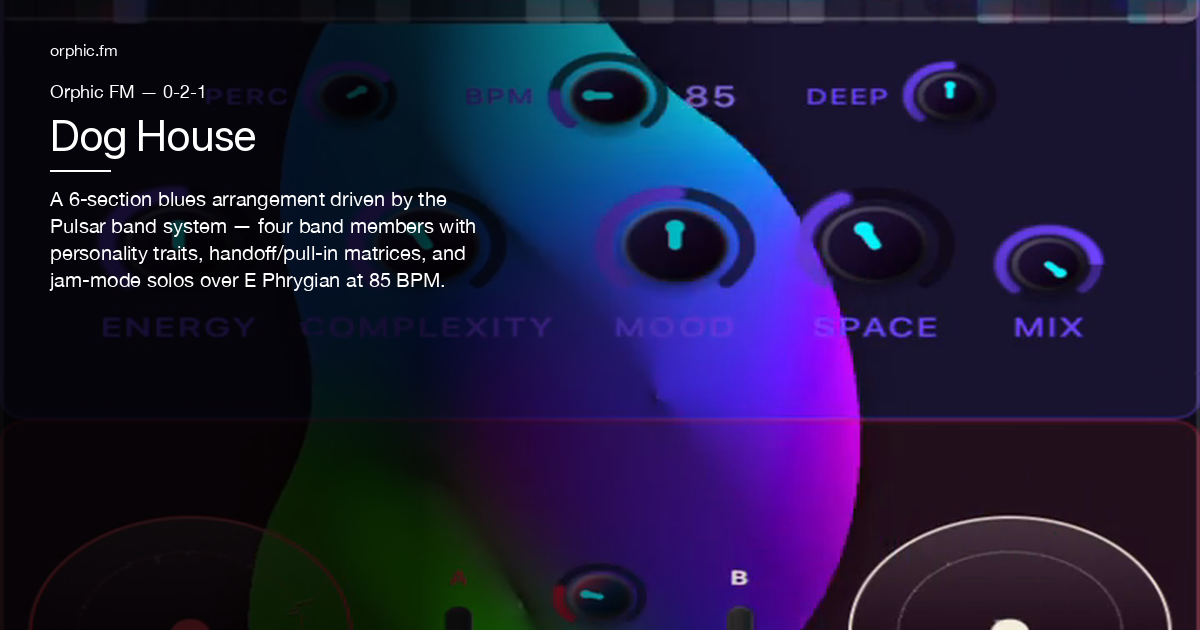
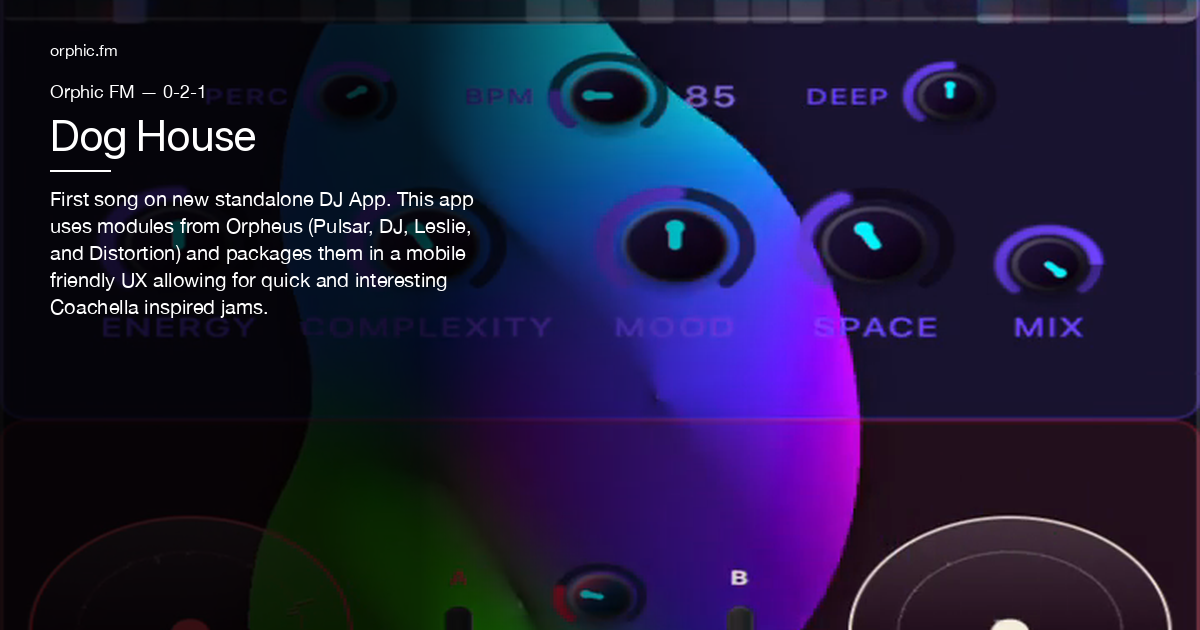
> Gemini 2.5 generated this response due to high traffic on Gemini 3
Strip HTML from OG image descriptions and regenerate assets

- Update `generate-og-images.py` to strip HTML tags from text, preventing them from being rendered in OpenGraph images.
- Regenerate OG images for the RIF album and the Dog House track to reflect the improved text handling.
- Remove trailing backslash from RIF album description.

Changed region(s): [[0.0308, 0.3016, 0.4008, 0.5127]]

diff --git a/_tools/generate-og-images.py b/_tools/generate-og-images.py
@@ -139,10 +139,11 @@ def darken_image(img):
 
 def wrap_text_ellipsis(draw, text, font, max_width, max_lines):
     """Word-wrap text to fit within max_width, truncating with ellipsis."""
-    # Clean up text: remove markdown bold/italic markers
+    # Clean up text: remove markdown bold/italic markers and HTML tags
     text = re.sub(r'\*\*(.+?)\*\*', r'\1', text)
     text = re.sub(r'\*(.+?)\*', r'\1', text)
     text = re.sub(r'`(.+?)`', r'\1', text)
+    text = re.sub(r'<[^>]+>', '', text)
     text = text.replace("\n", " ").strip()
 
     words = text.split()

diff --git a/albums/rif.md b/albums/rif.md
@@ -12,5 +12,5 @@ tech_description: |
 
   New **Drop** effects in the DJ Panel provide Coachella-inspired sounds and graphics. Arrangements are constructed in Kotlin with a data hierarchy allowing sounds to be assigned to tracks, which are assembled into band mates who perform based on the characteristics of the song, individual, and user input to produce flowing and evolving musiç.<br><br>
 
-  In this app, everything is left to chance, and Markov chains are used to define probabilities that generate sounds and compositions. A lot can go wrong with this setup, but the goal is to provide space and room for creativity, while defining guidelines and constraints to manage the overall flow and create something that is compelling.\\
+  In this app, everything is left to chance, and Markov chains are used to define probabilities that generate sounds and compositions. A lot can go wrong with this setup, but the goal is to provide space and room for creativity, while defining guidelines and constraints to manage the overall flow and create something that is compelling.
 ---
